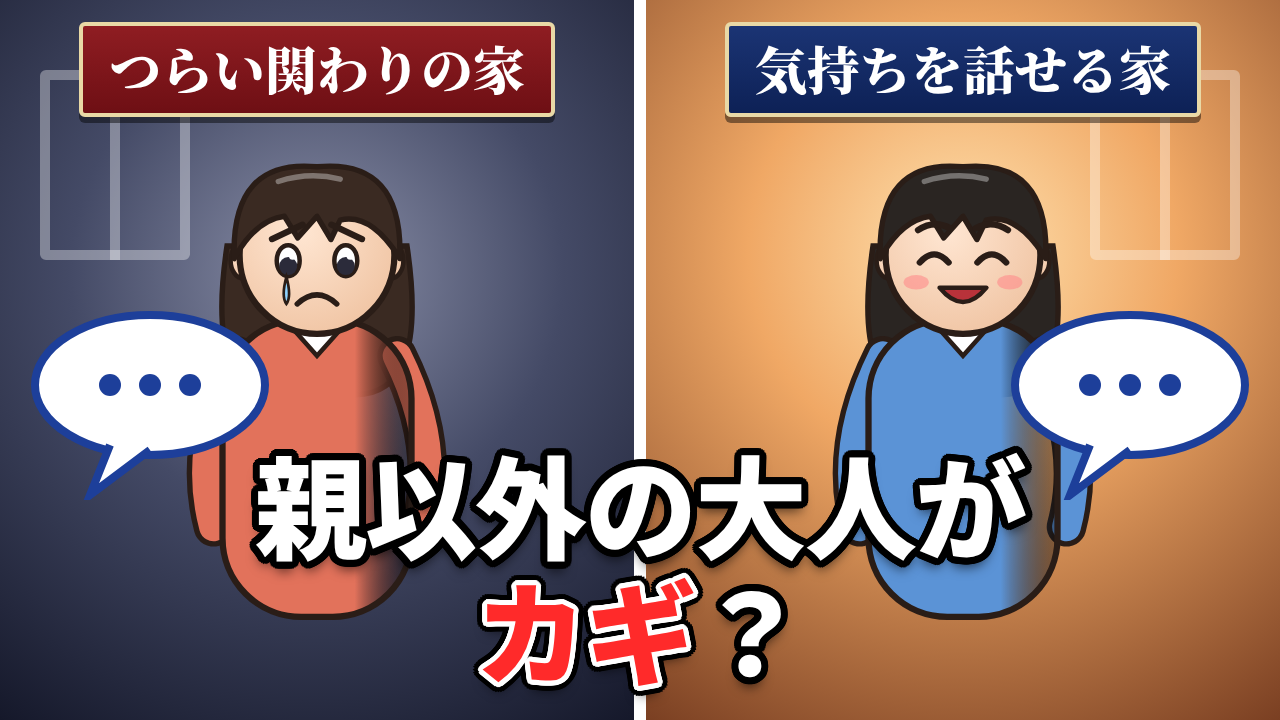
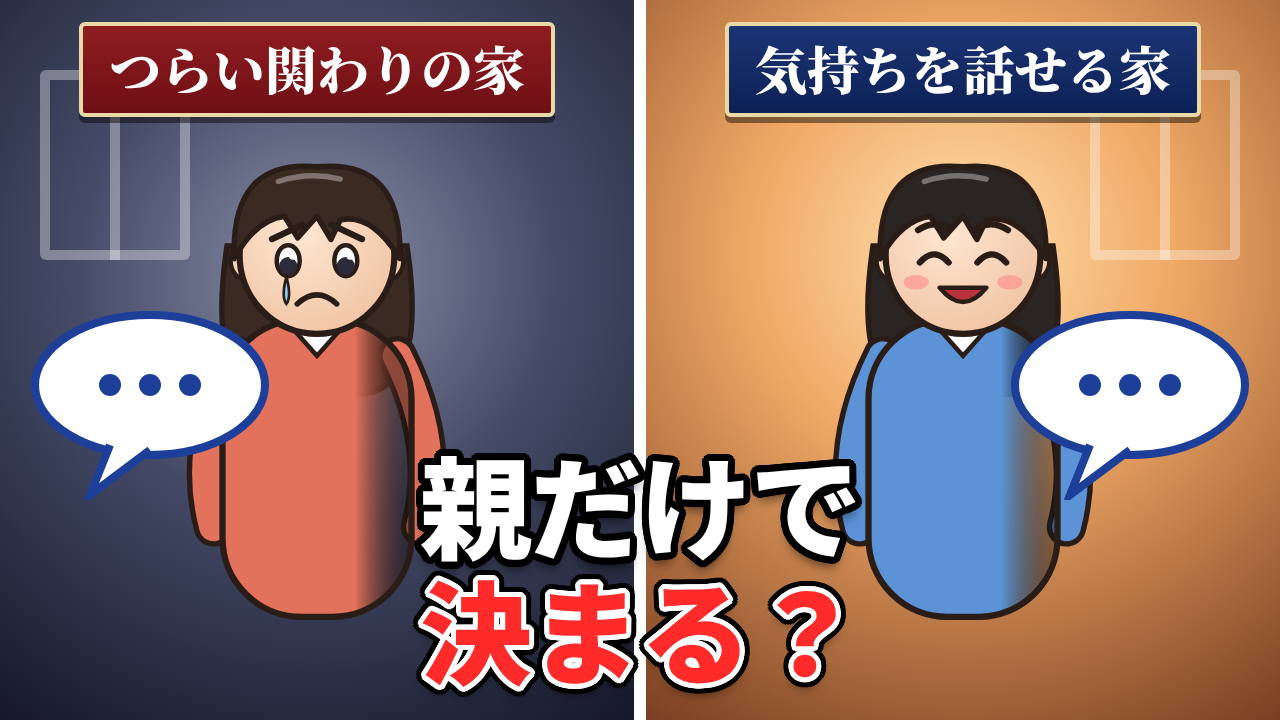
ヒト図鑑：競合サムネ分析（06b）×4、hito-004 のB案コピーを変更
Claude-Session: https://claude.ai/code/session_01Hy8jqjRYqVWafwMXUy1tDD

Changed region(s): [[0.1875, 0.6111, 0.8125, 0.9778]]

diff --git a/episodes/hito-004-toxic-parents/06b_thumbnail_benchmark.md b/episodes/hito-004-toxic-parents/06b_thumbnail_benchmark.md
@@ -1,0 +1,53 @@
+# 06b 競合サムネ分析："毒親"に育てられた子と、そうでない子（hito-004）
+
+## 確認方法
+- 2026-11-28 に `pipeline/scripts/yt_research.py "毒親 育ち 大人" "虐待 連鎖" "毒親育ち 普通の家庭 違い" --max 8 --thumbs-dir <リポジトリ外>` を実行したが、**YouTube Data API の検索上限（Search Queries per day、エラー 429）に達して取得できなかった**。その日の API 利用はそこで止めた。
+- 代わりに、同じ日（**2026-11-28**）に API で取得済みの `02_competitors.md` B の一覧（検索語「毒親 育ち 大人」「虐待 連鎖」「毒親 連鎖 しない」「逆境的小児期体験」「毒親育ち 普通の家庭 違い」ほか）から、再生数の多い順に長尺と対比のショートを選び、動画IDから `i.ytimg.com/vi/<id>/maxresdefault.jpg` を取得した。再生数・公開日・尺は `02_competitors.md` の値（取得日 2026-11-28）。
+- ヒト科研究所（UC2pr9NItN6Y6ENpk8Q96_cA）の2本も同じ方法で取得。親テーマの他の回（習い事・教育熱心・実家を出た人）は動画IDが記録になく取得していない。
+- 画像はすべてリポジトリ外（scratchpad）に保存し、**Claude が 2026-11-28 に1枚ずつ実見**した。リポジトリには URL だけ記録。下の表は画像で見えたことだけ（CTR・インプレッションは未確認）。漫画・創作ドラマの上位（AQ4U3OXGOh0・FktuDjToWkw・xmRURK4qDmc）は `06_thumbnail.md` の条件（参考にとどめる）により画像を取得していない。
+
+## 競合サムネ（10本。長尺9本）
+| # | 動画 | チャンネル | 再生数（取得日） | 公開日・型 | 主役・構図 | 文字（文言／行数・字数／書体・フチ／強調色） | 配色・明暗 | クリック動機 |
+|---|---|---|---|---|---|---|---|---|
+| H1 | [1JkD6OcI-TY](https://www.youtube.com/watch?v=1JkD6OcI-TY) 親の年収300万と1500万 | ヒト科研究所 | 529,041（2026-11-28） | 2026-11-13・長尺13:34 | **左右2分割**。各側に母親（のっぺりした顔）と後ろ姿の男の子。左＝狭い台所、右＝夜景の部屋 | ラベル「年収300万」「年収1500万」（白字、暗い赤の箱／紺の箱）。下に「育った家で出る／決定的な違い」（7＋6＝13字）、極太ゴシック＋黒フチ、「決定的な違い」だけ赤＋黄色の筆線 | 左は暖色、右は寒色。人物に光 | 育った家の違いが子にどう出るか。答えを隠す |
+| H2 | [IUilfGbAnCM](https://www.youtube.com/watch?v=IUilfGbAnCM) なぜ「全然食べてない」という人ほど太っているのか | ヒト科研究所 | 4,667（2026-11-27） | 2026-11-26・長尺11:15 | 一枚絵。小さな弁当を食べる女性（のっぺりした顔） | 4行・約24字、かすれ質感の極太＋黒フチ、白字、要の語だけ赤 | 暗めの背景＋窓光 | 常識の逆説 |
+| 1 | [LT0H3p-cwFI](https://www.youtube.com/watch?v=LT0H3p-cwFI) 【危うい】毒親育ちの人は"◯◯ができない"… | 精神科医さわの幸せの処方箋 | 694,353（2026-11-28） | 2025-06-22・長尺6:32 | 年配の女性（左・カラー）と若い女性（右・白黒）の実写、赤い矢印で若い女性を指す。右下に医師の小さな写真 | 「こんな人は毒親育ちです」（白、「毒親育ち」だけ紫のグラデ）、「○○しなくなります」（白、赤い丸2つの伏せ字）。2行・約20字、極太＋黒い影 | 白っぽい背景、カラーと白黒の対比 | 伏せ字＋「自分は当てはまるか」 |
+| 2 | [feOaroVN-hY](https://www.youtube.com/watch?v=feOaroVN-hY) 【毒親の老い逃げ】… | ABEMA Prime | 558,795（2026-11-28） | 2026-10-14・長尺32:40 | 顔をぼかした人物の実写（暗い室内） | 右上の白い箱に赤字「謝罪せず／負担押し付け／死んでいく」、下の紺帯に「毒親の老い逃げ」（7字、白＋黄の極太） | 暗い写真＋紺帯、白い箱が浮く | 強い造語と怒りの共感 |
+| 3 | [SnJFp-HoSvE](https://www.youtube.com/watch?v=SnJFp-HoSvE) 【夫婦喧嘩で子どものIQ・記憶力が低下】… | PIVOT 公式 | 494,809（2026-11-28） | 2025-09-25・長尺25:42 | 出演者3人（実写）＋子どもと大人の黒いシルエット | 「脳を変形させる／無意識な虐待」（13字、赤と青の極太・白フチ）、「最新脳研究でわかった」「やってはいけない親の言動」 | 紺の背景＋黄色の枠 | 脳＋虐待の恐怖、研究の権威 |
+| 4 | [5ii73DX-USs](https://www.youtube.com/watch?v=5ii73DX-USs) 毒親育ちじゃないのにアダルトチルドレンっぽいのはなぜ？ | ずんだの本質 | 481,574（2026-11-28） | 2025-03-28・長尺12:07 | 顔を灰色に塗りつぶしたひび割れ質感の両親と、間に座る女の子（素材集風イラスト）、赤い「？」。左下に黒猫、右下にずんだもん | 「わかりづらいからタチが悪い」（白＋黄）、「隠れ機能不全家族」（8字、マゼンタ＋白の極太・黒フチ）、マゼンタの筆線 | 白黒の背景に女の子だけ色。マゼンタ強調 | 「うちもそうかも」という隠れた問題 |
+| 5 | [Ta7rPDcDyaE](https://www.youtube.com/watch?v=Ta7rPDcDyaE) どうすればよかった？吉本ばなな…毒親問題を告白 | 精神科医がこころの病気を解説するCh | 242,017（2026-11-28） | 2026-06-08・長尺28:14 | 医師がホワイトボードの前で笑う実写。ボードに手書きの家系図とメモ | 大きな文字なし（ボードの手書きのみ） | 明るい室内 | チャンネル（医師）への信頼と話題の人名。サムネ自体の問いはない |
+| 6 | [LvnjyVmF9_U](https://www.youtube.com/watch?v=LvnjyVmF9_U) 【毒親に育てられた子の特徴】… | PIVOT 公式 | 197,591（2026-11-28） | 2025-08-22・長尺34:58 | 出演者3人（実写） | 「毒親に育てられた／子の末路」（黄＋白の極太・黒フチ）、「自分で決められない／不安障害のリスク」（黄帯）、「教育ママ・共働きは要注意！」、「親子の心と身体を守るエビデンス」。約50字 | 濃い紫の背景、黄と白の文字 | 「末路」＋当てはまる家庭（教育ママ・共働き） |
+| 7 | [oMGx8dG4PXY](https://www.youtube.com/watch?v=oMGx8dG4PXY) 【共依存親子】母親に人生を振り回された子どもの末路５パターン | 精神科医さわの幸せの処方箋 | 139,934（2026-11-28） | 2025-06-01・長尺7:31 | 年配の母と若い娘の実写、マゼンタの矢印、右下に医師の小さな写真 | 「共依存娘の末路」（マゼンタ＋黒の極太）、「こうなります…」（黒・白フチ）、縦に「最後は○○になる」 | 白っぽい背景＋マゼンタ | 「末路」＋言いさし・伏せ字 |
+| 8 | [7nS0zpupY88](https://www.youtube.com/watch?v=7nS0zpupY88) 【毒親育ち】"怒られない家"って本当にあるんだ | 隣の芝生は蜜の味 | 45,583（2026-11-28） | 2026-05-08・ショート | 縦長。薄緑の背景にSNS投稿風の文字の箱、下にキツネのキャラ | 箱の見出し「【毒親育ち】"怒られない家"って本当にあるんだ」と本文（小さい文字） | 薄緑・白、明るい | 2家庭の違いへの驚き（体験談） |
+
+## 共通の勝ちパターン（今回のサムネで採用する）
+1. **結果を伏せる言いさし・伏せ字**（1「○○しなくなります」、7「こうなります…」「最後は○○になる」、6・7「末路」、H1「決定的な違い」）。→ 採用：主コピーは答えを言わない問いにする（「連鎖する？」「あったもの」）。ただし「末路」「○○」の伏せ字は使わない。
+2. **母と娘（大人の女性）を主役にし、顔をはっきり見せない／ぼかす**（1・7 は母娘の実写、2 はぼかし、4 は塗りつぶし、H1・H2 はのっぺりした顔）。→ 採用：ことね（32歳で母）とゆなを主役に、実在の人物に見えない描き方。
+3. **極太＋太フチで要の語だけ色を変える（紫・マゼンタ・黄が多い）**（1・2・4・6・7）。→ 採用：Noto Sans JP 900＋太フチ。要の語の色は赤か黄（競合のマゼンタ・紫とは変える）。
+4. （補足）**2つの家・2つの状態の対比**は H1 と 8（体験談のショート）だけ。長尺の解説・討論で左右に2つの家を並べたものは見た範囲で0本。
+
+## 差別化（完成サムネで見えるようにする）
+1. **年齢で時間軸を見せる（3歳 → 32歳で母になる）**：10本とも1つの時点（大人になった今）しか描いていない。左右とも「3歳」「32歳」の小さな年齢バッジで1本の人生をつなぐ。
+2. **「末路・特徴・後遺症」ではなく「連鎖は運命か」を問う／暗さで終わらせない**：1・6・7 は末路と特徴、3・4 は脳と隠れた問題。こちらは常識とぶつかる問い（連鎖する？）と、左右の家の灯りを近づける表現。
+3. **「毒親」の語を画面に出さない**：競合8本中5本（1・2・6・7・8）が「毒親」か「末路」を画面の最大級の文字で出している。こちらはタイトルで入口を作り、サムネはラベル「つらい関わりの家／気持ちを話せる家」と問いだけ。並びで見て一番違いが分かる点。
+
+## 丸パクリにならないために避けること
+- 1・7 の「○○しなくなります」「こうなります…」「最後は○○になる」の伏せ字、6・7 の「末路」。
+- 1・7 の「母娘の実写＋矢印＋右下に医師の小写真」のセット。
+- 4 の顔の塗りつぶし＋ひび割れ質感の両親（親を怪物に見せる描き方でもある）。
+- 2・6 の紺／紫の帯にマゼンタ・黄の「毒親」大見出し。
+- H1 のセット（暗い赤×紺のラベル箱＋暖色／寒色の部屋＋下に白と赤の2色コピー＋黄色の筆線）をそのまま使う。
+- 8 の「"怒られない家"って本当にあるんだ」の文言（hito-003 の題材とも重なる）。
+- 実写の人物・競合の画像・キャラのトレース。
+
+## 参考にしたパターンとどこを変えたか
+- H1 の二面対比と暖色／寒色 → 採用（`characters` の warm／cool）。箱と下のコピーの配色・飾り線は変える。左を「貧しい・暗い家」の印象で固定せず、案C では左右の灯りを近づける。
+- 1・7 の言いさし → 「末路」「○○」ではなく「？」の問いに変える。
+- 1・7 の母娘 → 母娘の実写ではなく、3歳の子と32歳の母（同一人物）を年齢バッジでつなぐ。
+- 4 の顔を見せない描き方 → 塗りつぶし・ひび割れではなく、架空と分かる穏やかなイラストにする。
+
+## 主コピー案の評価（`06_thumbnail.md` の A/B/C）
+- **A「やっぱり／連鎖する？」（9字）＝一番強い**。並びは「影響が残る」前提の末路・特徴ばかりで、「連鎖」を問いにしたものはない。視聴者の多くが「する」と思っている点に直接ぶつかり、答え（多数は繰り返さない）はサムネから想像しにくい。字数が少なく320pxでも大きく置ける。
+- **B「親以外の大人が／カギ？」（10字）＝弱め**。答え（親以外の大人が大事）をほぼ言ってしまっていて、本編を見ないと解けない疑問になりにくい。「カギ」は断定に近く読まれやすい。
+- **C「断ち切った家に／あったもの」（12字）＝強い**。並びの「末路」と逆向きの希望で、何があったかは本編を見ないと分からない。「断ち切った家がある」こと自体が A の答えを少し明かすが、問いは残る。
+- 言い換え案：B を「親だけで／決まる？」（7字）。「親で全部決まる」という思い込みにぶつかり、答え（よい体験＝親以外の大人との関わりも含む、`final-pce`）は本編に残せる。断定はしていない。タイトルの「分けたもの」「親になったとき」も使っていない。

diff --git a/episodes/hito-001-thin-fat-day/06b_thumbnail_benchmark.md b/episodes/hito-001-thin-fat-day/06b_thumbnail_benchmark.md
@@ -1,0 +1,53 @@
+# 06b 競合サムネ分析：痩せている人と太っている人の1日（hito-001）
+
+## 確認方法
+- 検索：`pipeline/scripts/yt_research.py "痩せている人 太っている人 違い" "太る人 太らない人 習慣" "太りやすい人 特徴 研究" --max 8 --thumbs-dir <リポジトリ外>`（YouTube Data API v3、**取得日：2026-11-28**）。検索語は `06_thumbnail.md`「競合サムネの探し方」から。
+- ヒト科研究所（UC2pr9NItN6Y6ENpk8Q96_cA）の2本と、検索に出なかった長尺1本・ショート1本は `02_competitors.md` の一覧の動画IDから `i.ytimg.com/vi/<id>/maxresdefault.jpg` を取得。再生数は `02_competitors.md` 記録時の値（取得日を行ごとに記載）。
+  - 2026-11-28 の4本目の検索で API の検索上限（Search Queries per day）に達したため、それ以降 API は呼んでいない。ヒト科研究所の他の回（習い事・教育熱心など）は動画IDが記録になく、今回は画像を取得していない。
+- 画像はすべてリポジトリ外（scratchpad）に保存し、**Claude が 2026-11-28 に1枚ずつ実見**した。リポジトリには URL だけ記録。下の表は画像で見えたことだけを書く（CTR・インプレッションは未確認）。
+- ショート：maxres 画像が「縦長の画面を中央に置き、左右をぼかして拡大」した形のものをショートと書く。長尺／ショートが記録にないものは「–」。
+
+## 競合サムネ（8本。長尺3本以上を含む）
+| # | 動画 | チャンネル | 再生数（取得日） | 公開日・型 | 主役・構図 | 文字（文言／行数・字数／書体・フチ／強調色） | 配色・明暗 | クリック動機 |
+|---|---|---|---|---|---|---|---|---|
+| H1 | [1JkD6OcI-TY](https://www.youtube.com/watch?v=1JkD6OcI-TY) 親の年収300万と1500万 | ヒト科研究所 | 529,041（2026-11-28） | 2026-11-13・長尺13:34 | **左右2分割**。各側に母親（顔は目鼻を描かないのっぺりした顔）と後ろ姿の男の子。左＝狭い台所（壁の丸時計・冷蔵庫の「今月のやりくり」メモ・半額シールの惣菜）、右＝夜景の高層階の部屋（地球儀・百合・ステーキ・旅行パンフ）。中央に細い白線 | ラベル「年収300万」「年収1500万」（白字、**暗い赤の箱／紺の箱**、白い枠）。下に1行「育った家で出る／決定的な違い」（7＋6＝13字）。極太ゴシック＋黒フチ、「決定的な違い」だけ赤（白フチ）で大きく、下に黄色の筆線 | 左は橙の灯りの暖色、右は紺と夜景の寒色。どちらも人物に光が当たり背景から浮く | 同じ「子ども」がどんな大人になるか。「決定的な違い」の中身を隠す |
+| H2 | [IUilfGbAnCM](https://www.youtube.com/watch?v=IUilfGbAnCM) なぜ「全然食べてない」という人ほど太っているのか | ヒト科研究所 | 4,667（2026-11-27） | 2026-11-26・長尺11:15 | **一枚絵**（2分割ではない）。右にカーディガンの女性（顔はのっぺり、伏し目）が小さな弁当から卵焼き1切れを箸でつまむ。背景はぼけたカフェと窓の光 | 左に4行「なぜ／「全然食べてない」／という人ほど／太っているのか」（約24字）。かすれ質感の極太書体＋黒フチ、白字。「全然食べてない」だけ赤。右上に小さく「※人物はイメージです」 | 背景は暗め、窓光で人物の輪郭が明るい | 「食べてないのに太る」という逆説 |
+| 1 | [25XAQBKeAVU](https://www.youtube.com/watch?v=25XAQBKeAVU) 太った人の夜ルーティン全部やってみた | 片倉岳人/ダイエットの知恵袋 | 6,714,930（2026-11-28） | 2025-09-08・ショート | 実写1人。坊主の男性が夜にカップ麺（BIG）と揚げ物を食べる | 「20:50／炭水化物は正義」（2行・約12字）。細めの明朝系の白字、薄い影。小さい | 白い室内、普通の明るさ | **時刻**＋本音の一言で「太る人の夜」を覗き見 |
+| 2 | [jjr2ibpCx3E](https://www.youtube.com/watch?v=jjr2ibpCx3E) 太る人痩せる人の考え方の違い | さり【満腹ダイエット】 | 2,462,243（2026-11-28） | 2025-09-24・ショート | **縦長を左右2分割**。同じ女性が左右に（左は白い飲み物、下にロールケーキの皿／右はりんごを食べ、下にりんごの皿） | 上帯「太る人痩せる人の違い」（10字）、左右ラベル「太る」「痩せる」（濃い茶の箱、「痩せる」は赤字）。太めのゴシック、フチは弱い | 明るい肌色・白。左右の明暗差はほぼない | 同じ人で何が違うのか（食べ物の違いは絵で見える） |
+| 3 | [SVmvPfxqeXw](https://www.youtube.com/watch?v=SVmvPfxqeXw) 3kg痩せる人と3kg太る人の1日の食事違い | しいチャンネル | 453,718（2026-11-27） | 2026-08-23・ショート | **縦長を左右2分割**。左に笑顔の女性とサンドイッチの皿、右に無表情の女性。木のテーブル | 左右ラベル「3kg痩せる人」「3kg太る人」（黒字・白地）、**中央上に「7:00」**（明朝系の白字・黒影）、下に「510kcal」 | 明るい室内。左右の差は表情のみ | 時刻と kcal で「1日の食事」を比べる |
+| 4 | [QoGvnbHeL10](https://www.youtube.com/watch?v=QoGvnbHeL10) 太るものばっかり食べても太らない理由 | トレ韓 | 2,285,167（2026-11-28） | 2025-10-18・ショート | 実写1人。女性が大きなカップ麺をすする | 上に2行「太るものばっかり／食べても太らない理由」（8＋10＝18字）。極太ゴシック＋黒フチ、1行目マゼンタ・2行目黄 | 黒背景の上帯＋明るい実写 | 「太るものを食べても太らない」という逆説 |
+| 5 | [imv48PZCJgw](https://www.youtube.com/watch?v=imv48PZCJgw) アメリカ人は太っているのに日本人は痩せている驚きの理由！ | MrFuji from Japan | 1,028,756（2026-11-28） | 2025-07-25・– | 一枚。驚き顔の4人（実写）と国旗、左に飲み物のサイズ比較の写真（420ml／887ml）・お茶・給食の写真 | 上「↓アメリカ人に比べて」、下「日本人が痩せている理由!?」（11字＋記号）。極太ゴシック、赤字に白＋黒の二重フチ、オレンジ帯。ほか「お茶（小）」「給食文化」「サイズ」 | 原色多め（赤・橙・青）、明るい | 国の比較の「理由」を隠す。数字（ml）で差を見せる |
+| 6 | [pyGL4AcBYts](https://www.youtube.com/watch?v=pyGL4AcBYts) 大食い系YouTuber、フードファイターが痩せている本当の理由 | 高須幹弥 | 1,361,467（2026-11-27） | 2025-12-24・長尺 | 医師の顔のアップ（実写）、本棚の背景 | **文字なし** | 暖色の室内、自然光 | チャンネル（医師）への信頼とタイトルで引く。サムネ自体の問いはない |
+
+参考（表外・同じ検索で実見）：[ObPpusoMOks](https://www.youtube.com/watch?v=ObPpusoMOks)（リュウト、815,188・2026-11-27）は縦長左右2分割＋「痩せる人／太る人」ラベル＋上に朝食の写真と「480kcal／320kcal」、中央に「朝食」。
+
+## 共通の勝ちパターン（今回のサムネで採用する）
+1. **左右2分割＋短いラベルで「誰と誰の比較か」を一瞬で伝える**（H1・2・3・ObPpusoMOks）。→ 採用：左りょう／右たくみ、色の違う箱のラベル。
+2. **食べ物と「食べている場面」を図の主役にする**（1・2・3・4・H2：カップ麺・弁当・皿）。→ 採用：案Aは2人の前に同じ大盛りの皿、案Bは朝ごはん／コーヒー。
+3. **常識の逆説を短い問いにし、要の語だけ赤か黄で強調、極太＋黒フチ**（H2「全然食べてない」の赤、4のマゼンタ／黄、5の赤＋二重フチ、H1の赤＋黄の線）。→ 採用：主コピーは問いの形、要の語（「約10倍」など）だけ黄か赤。
+4. （補足）**時刻を出して「1日のどこか」と分からせる**（1「20:50」、3「7:00」）。→ 差別化1で形を変えて使う。
+
+## 差別化（完成サムネで見えるようにする）
+1. **時計で「1日」を見せる。ただし文字の時刻ではなくアナログ時計を2人に同じ形で置く**：競合のショートは時刻を小さな文字で置くだけ（1・3）、H1 は時計を背景の小物にしている。こちらは「同じ時刻・同じ皿」を左右で揃え、違いを体の輪郭だけにする。
+2. **数字を kcal・ml ではなく研究の「約10倍」にする**：競合の数字は kcal（3・ObPpusoMOks）と ml（5）だけ。研究の数字を主コピーに出すのは見た範囲で0本。
+3. **体の仕組みの図を1つだけ**（座っている時間の帯）：8本とも図版は使っていない（実写か人物イラスト）。
+4. **太っている側を責める描写をしない**：H2 は伏し目の小食、1 は夜食で「太る人」を描く。こちらは2人とも同じスーツ・同じ表情の強さ。
+
+## 丸パクリにならないために避けること
+- H2 の切り口と同じ文言（「全然食べてない」「食べてないのに」）、4 の「食べても太らない」。
+- H1 のセット（暗い赤×紺のラベル箱＋左右の暖色／寒色の部屋＋下に白と赤の2色コピー＋黄色の筆線）をそのまま使う。ラベル箱は別の配色にする。
+- 3 の「左右2分割の中央上にデジタルの『7:00』」＋左右ラベル「○○痩せる人／○○太る人」の組み合わせ。
+- 2・ObPpusoMOks の「太る／痩せる」の短い白黒ラベルの上帯。ラベルの語は `characters` の「痩せている人／太っている人」のまま。
+- 実写の人物・競合の画像・キャラのトレース。
+
+## 参考にしたパターンとどこを変えたか
+- H1 の二面対比と左右の暖色／寒色 → 採用。箱の配色と下のコピーの配色・飾り線は変える。部屋の豊かさの差ではなく「同じ時刻・同じ皿」で揃える。
+- 1・3 の時刻表示 → アナログ時計を2人の側に同じ形で置く（中央のデジタル表記にしない）。
+- H2・4 の逆説の問い → 「食べてない」ではなく「同じだけ食べ過ぎても違う」の逆説にする。
+- 5 の数字で差を見せる → kcal・ml ではなく研究の「約10倍」に変える。
+
+## 主コピー案の評価（`06_thumbnail.md` の A/B/C）
+- **A「太り方が／約10倍違う？」（11字）＝一番強い**。並びの中で研究の数字を出すのはこれだけで、H2（食べてないのに太る）とも逆の向きの逆説。「同じだけ食べ過ぎた」前提は皿の図で必ず見せること（文字だけだと「何と比べて10倍？」になる）。
+- **B「朝ごはん抜くと／太る？」（10字）＝弱め**。ダイエット系ショート（3・ObPpusoMOks の朝食・kcal 比較）の語彙と近く、「はい／いいえ」で答えを想像されやすい。2人の差という大きな問いにもつながりにくい。
+- **C「意志の弱さ／のせい？」（9字）＝中〜強**。並びに同じ切り口はなく、答えが想像しにくい。ただし太っている側を責める文脈に見えやすいので、`06_thumbnail.md` のとおり下中央に置き右の人物と結び付けない。
+- 言い換え案：なし（A が字数・事実・タイトルとの重なりの条件の中で最も強い。「同じ量で／太り方約10倍？」（12字）は前提を文字に入れられるが、「10倍太る」と読まれやすいので採らない）。

diff --git a/episodes/hito-003-yelling-parents/06b_thumbnail_benchmark.md b/episodes/hito-003-yelling-parents/06b_thumbnail_benchmark.md
@@ -1,0 +1,49 @@
+# 06b 競合サムネ分析：怒鳴る家と、怒鳴らずに伝える家（hito-003）
+
+## 確認方法
+- 検索：`pipeline/scripts/yt_research.py "怒る親 怒らない親 子ども" "怒鳴る親 子ども 脳" "怒鳴られて育った子 大人" --max 8 --thumbs-dir <リポジトリ外>`（YouTube Data API v3、**取得日：2026-11-28**）。検索語は `06_thumbnail.md`「競合サムネの探し方」から。
+- `06_thumbnail.md` の参考チャンネルのうち検索に出なかった宋世羅（I0hKjmPs_8w）と心と知恵の子育て雑学（PXBAG5-TBzQ）、ヒト科研究所（UC2pr9NItN6Y6ENpk8Q96_cA）の2本は、`02_competitors.md`（hito-001／hito-003）の動画IDから `i.ytimg.com/vi/<id>/maxresdefault.jpg` を取得。再生数は `02_competitors.md` 記録時の値。ヒト科研究所の一番近い 11/27 回（教育熱心な家と自由に育てた家）は動画IDが記録になく、2026-11-28 に API の検索上限（Search Queries per day）に達したため取得していない。
+- 画像はすべてリポジトリ外（scratchpad）に保存し、**Claude が 2026-11-28 に1枚ずつ実見**した。リポジトリには URL だけ記録。下の表は画像で見えたことだけ（CTR・インプレッションは未確認）。
+
+## 競合サムネ（8本。長尺6本）
+| # | 動画 | チャンネル | 再生数（取得日） | 公開日・型 | 主役・構図 | 文字（文言／行数・字数／書体・フチ／強調色） | 配色・明暗 | クリック動機 |
+|---|---|---|---|---|---|---|---|---|
+| H1 | [1JkD6OcI-TY](https://www.youtube.com/watch?v=1JkD6OcI-TY) 親の年収300万と1500万 | ヒト科研究所 | 529,041（2026-11-28） | 2026-11-13・長尺13:34 | **左右2分割**。各側に母親（のっぺりした顔）と後ろ姿の男の子。左＝狭い台所、右＝夜景の部屋 | ラベル「年収300万」「年収1500万」（白字、暗い赤の箱／紺の箱）。下に「育った家で出る／決定的な違い」（7＋6＝13字）、極太ゴシック＋黒フチ、「決定的な違い」だけ赤＋黄色の筆線 | 左は暖色、右は寒色。人物に光 | 家庭の違いが子にどう出るか。答えを隠す |
+| H2 | [IUilfGbAnCM](https://www.youtube.com/watch?v=IUilfGbAnCM) なぜ「全然食べてない」という人ほど太っているのか | ヒト科研究所 | 4,667（2026-11-27） | 2026-11-26・長尺11:15 | 一枚絵。小さな弁当を食べる女性（のっぺりした顔） | 4行・約24字、かすれ質感の極太＋黒フチ、白字、要の語だけ赤 | 暗めの背景＋窓光 | 常識の逆説 |
+| 1 | [SnJFp-HoSvE](https://www.youtube.com/watch?v=SnJFp-HoSvE) 【夫婦喧嘩で子どものIQ・記憶力が低下】… | PIVOT 公式 | 494,809（2026-11-28） | 2025-09-25・長尺25:42 | 出演者3人（実写、右に大きく女性）＋中央に子どもと大人の黒いシルエット | 「脳を変形させる／無意識な虐待」（7＋6＝13字、赤と青の極太・白フチ）、下「最新脳研究でわかった」（白字・赤帯）「やってはいけない親の言動」（青・黄帯） | 紺の背景＋黄色の枠。原色 | 脳＋虐待の恐怖、研究の権威 |
+| 2 | [LrzsOVUUS4Y](https://www.youtube.com/watch?v=LrzsOVUUS4Y) 【科学的観点】子どもを怒鳴ると子どもの脳では何が起こるのか？… | 子育て勉強会TERUch | 123,577（2026-11-28） | 2026-06-28・長尺21:32 | 母親が子に向かって口を開けて怒鳴る**実写**（子は背を向ける）、右に目を大きな眼鏡で隠した男性 | 「子どもを／怒鳴ってしまう人」（紫のグラデ・白フチ）、「今すぐ○○して！」（黄〜白のグラデ・黒フチ）。3行・約19字 | 暗めの室内写真に明るい文字 | 自分ごと（怒鳴ってしまう）＋伏せ字の解決策 |
+| 3 | [I0hKjmPs_8w](https://www.youtube.com/watch?v=I0hKjmPs_8w) ほめられて育った人と怒られて育った人。 | 宋世羅の羅針盤ちゃんねる | 134,659（2026-11-28） | 2025-05-28・長尺10:45 | 左に話し手の男性（実写）、中央に得意げな子どものイラスト（素材集風）、背景は薄い灰色 | 「ほめられすぎて／育った人／あるある。」（7＋4＋5＝16字）、太い明朝系の白字・黒い太い影 | 明るい灰色の背景に白字＋黒影 | 「あるある」で自分か身近な人を当てはめさせる |
+| 4 | [PXBAG5-TBzQ](https://www.youtube.com/watch?v=PXBAG5-TBzQ) 泣くまで怒られて育った子の「悲しい末路」10選 | 心と知恵の子育て雑学 | 16,728（2026-11-28） | 2026-01-15・長尺10:17 | 白背景。指さして怒鳴る母と、耳をふさいで泣く男の子のイラスト、赤い矢印 | 「実は、泣くまで怒られて／育った子は…」（約17字）。太いゴシック、黒字、「泣くまで怒られて」だけ赤。フチなし | 白背景＋赤 | 言いさし（「…」）で結末を隠す |
+| 5 | [M6MuxaKfO7M](https://www.youtube.com/watch?v=M6MuxaKfO7M) 【心理学/脳科学】子供が泣くまで怒る親は | 深層の豆電球 | 24,703（2026-11-28） | 2026-10-11・2:25 | 白背景。真っ赤な顔で怒鳴り指さす父（怒りマーク・稲妻）と、泣いてうずくまる男の子のイラスト、赤い矢印 | 「実は 子供 が／泣くまで怒る親は」（約14字）、極太ゴシック、黒字、「子供」は青、2行目は赤。フチなし | 白背景＋赤・青 | 4と同じ「実は〜は」の言いさし |
+| 6 | [AiMKY8HL7Xk](https://www.youtube.com/watch?v=AiMKY8HL7Xk) 子どもがストレスを感じる行為とは？ | 子育ての味方Σ心理と雑学 | 371,574（2026-11-28） | 2025-06-06・ショート | 白い縦長画面。怒る母（怒りマーク・稲妻）と泣きそうな男の子の素材集風イラスト | 「子どもが最もストレス／を感じる親の行為」（約18字）、太いゴシック黒字 | 白背景 | 「最も」の最上級で自分の行動を確かめさせる |
+
+## 共通の勝ちパターン（今回のサムネで採用する）
+1. **親と子を同じ画面に置き、親の様子と子の反応で「叱る場面」を一瞬で伝える**（2・4・5・6、H1 も親子のセット）。→ 採用：左右それぞれに親子を置く（4歳のブロック事件の同じ場面）。ただし親の怒り顔・泣く子は使わない（下の差別化3）。
+2. **答えを隠す言いさし・伏せ字**（4「育った子は…」、5「怒る親は」、2「今すぐ○○して！」、H1「決定的な違い」）。→ 採用：主コピーは問いの形で終わらせ、答えは本編に任せる。
+3. **極太の文字で要の語だけ色を変える（赤が最多）**（1・2・4・5・H1）。→ 採用：Noto Sans JP 900＋太フチ、要の語だけ赤か黄。フチなしの 4・5 は320pxで弱いので、太フチは必ず付ける。
+4. （補足）**「脳」「研究」で権威を出す**（1「最新脳研究でわかった」）。→ 案C だけで使うかを社長に選んでもらう（後追いリスクは下に）。
+
+## 差別化（完成サムネで見えるようにする）
+1. **「怒る／怒らない」ではなく「叱り方」の左右対比**：8本のうち左右2分割は H1 だけで、怒鳴る家と伝える家を並べたものは0本。右の親がしゃがんで目線を合わせて話す絵で「右も叱っている」と分かるようにする。
+2. **年齢バッジで時間軸（1歳→13歳→20歳）**：競合は「育った人」「育った子」と文字で言うだけ（3・4）で、年齢を見せるものは0本。
+3. **怒りマーク・稲妻・指さし・泣く子・赤い顔を使わない**：4・5・6 がこの描き方。こちらは「困って疲れた親」までにして、親を悪者にしない。
+
+## 丸パクリにならないために避けること
+- 4・5 の「実は、泣くまで怒られて育った子は…」「実は子供が泣くまで怒る親は」の文言と、白背景＋指さす親＋泣く子＋赤い矢印のセット。
+- 2 の「今すぐ○○して！」の伏せ字、1 の「脳を変形させる」「最新脳研究でわかった」。
+- 3 の「〜育った人あるある」。
+- H1 のセット（暗い赤×紺のラベル箱＋暖色／寒色の部屋＋下に白と赤の2色コピー＋黄色の筆線）をそのまま使う。
+- 実写の人物・競合の画像・素材集のキャラのトレース。
+
+## 参考にしたパターンとどこを変えたか
+- H1 の二面対比と暖色／寒色 → 採用（`characters` の warm／cool）。箱と下のコピーの配色・飾り線は変え、「同じ失敗をした同じ場面」で揃える。
+- 4・5 の言いさし → 「…」で結末を隠すのではなく、思い込みを問う「？」に変える。
+- 2・4・5・6 の親子のセット → 怒り顔・泣き顔ではなく、目線の高さ（立って大声／しゃがんで話す）の違いで対比する。
+- 1 の脳の権威 → 案C で使う場合も、縮んだ・変形した脳には描かない。
+
+## 主コピー案の評価（`06_thumbnail.md` の A/B/C）
+- **A「怒らない家は／わがまま？」（11字）＝中〜強**。「怒らない子育ては逆効果」系（検索に出た小規模ショート）とも同じ不安を突き、並びの「怒る親」側の言いさしとは逆側から入れる。ただし「怒らない家」が右の「理由を伝える家」と別物に聞こえるので、右の絵で「叱っている」ことが見えないと約束がずれる。
+- **B「あとの優しさで／帳消し？」（11字）＝一番強い**。並びに同じ切り口はなく、怒鳴ったあとに後悔する親の多くに刺さる。答え（帳消しとは言えなかった）は想像しにくい。
+- **C「「脳が縮む」は／本当？」（10字）＝強いが危険**。1（PIVOT）の「脳を変形させる」に正面からぶつかる引きはある。ただし同じ研究者の話になり後追いに見えやすく、答え（違う）も想像されやすい。
+- 言い換え案（任意）：B を「あとで褒めれば／帳消し？」（11字）。具体的な行動になり、絵（叱ったあとにほめる親）にしやすい。範囲は Polcari 2014（#5）の「言葉の愛情（ほめる・愛情を言葉にする）」と、本編 `polcari-love` の「ほめることや愛情を伝える言葉」の中。ただし本編13歳の場面（`age13-back`）は「後悔してアイスを買う」親なので、絵をそちらに合わせるなら元の「優しさ」のほうが広く回収できる。「抱きしめれば」は研究で調べていない行動なので使わない。
+- 注意：B の文言は本編 `warmth` の見出し「あとの優しさで／帳消し、とは言えず」とほぼ同じ。約束の回収は確実だが、サムネの背景・構図を本編の fact 画面に寄せると「動画の1コマ」に見えるので、そこは変えること。
